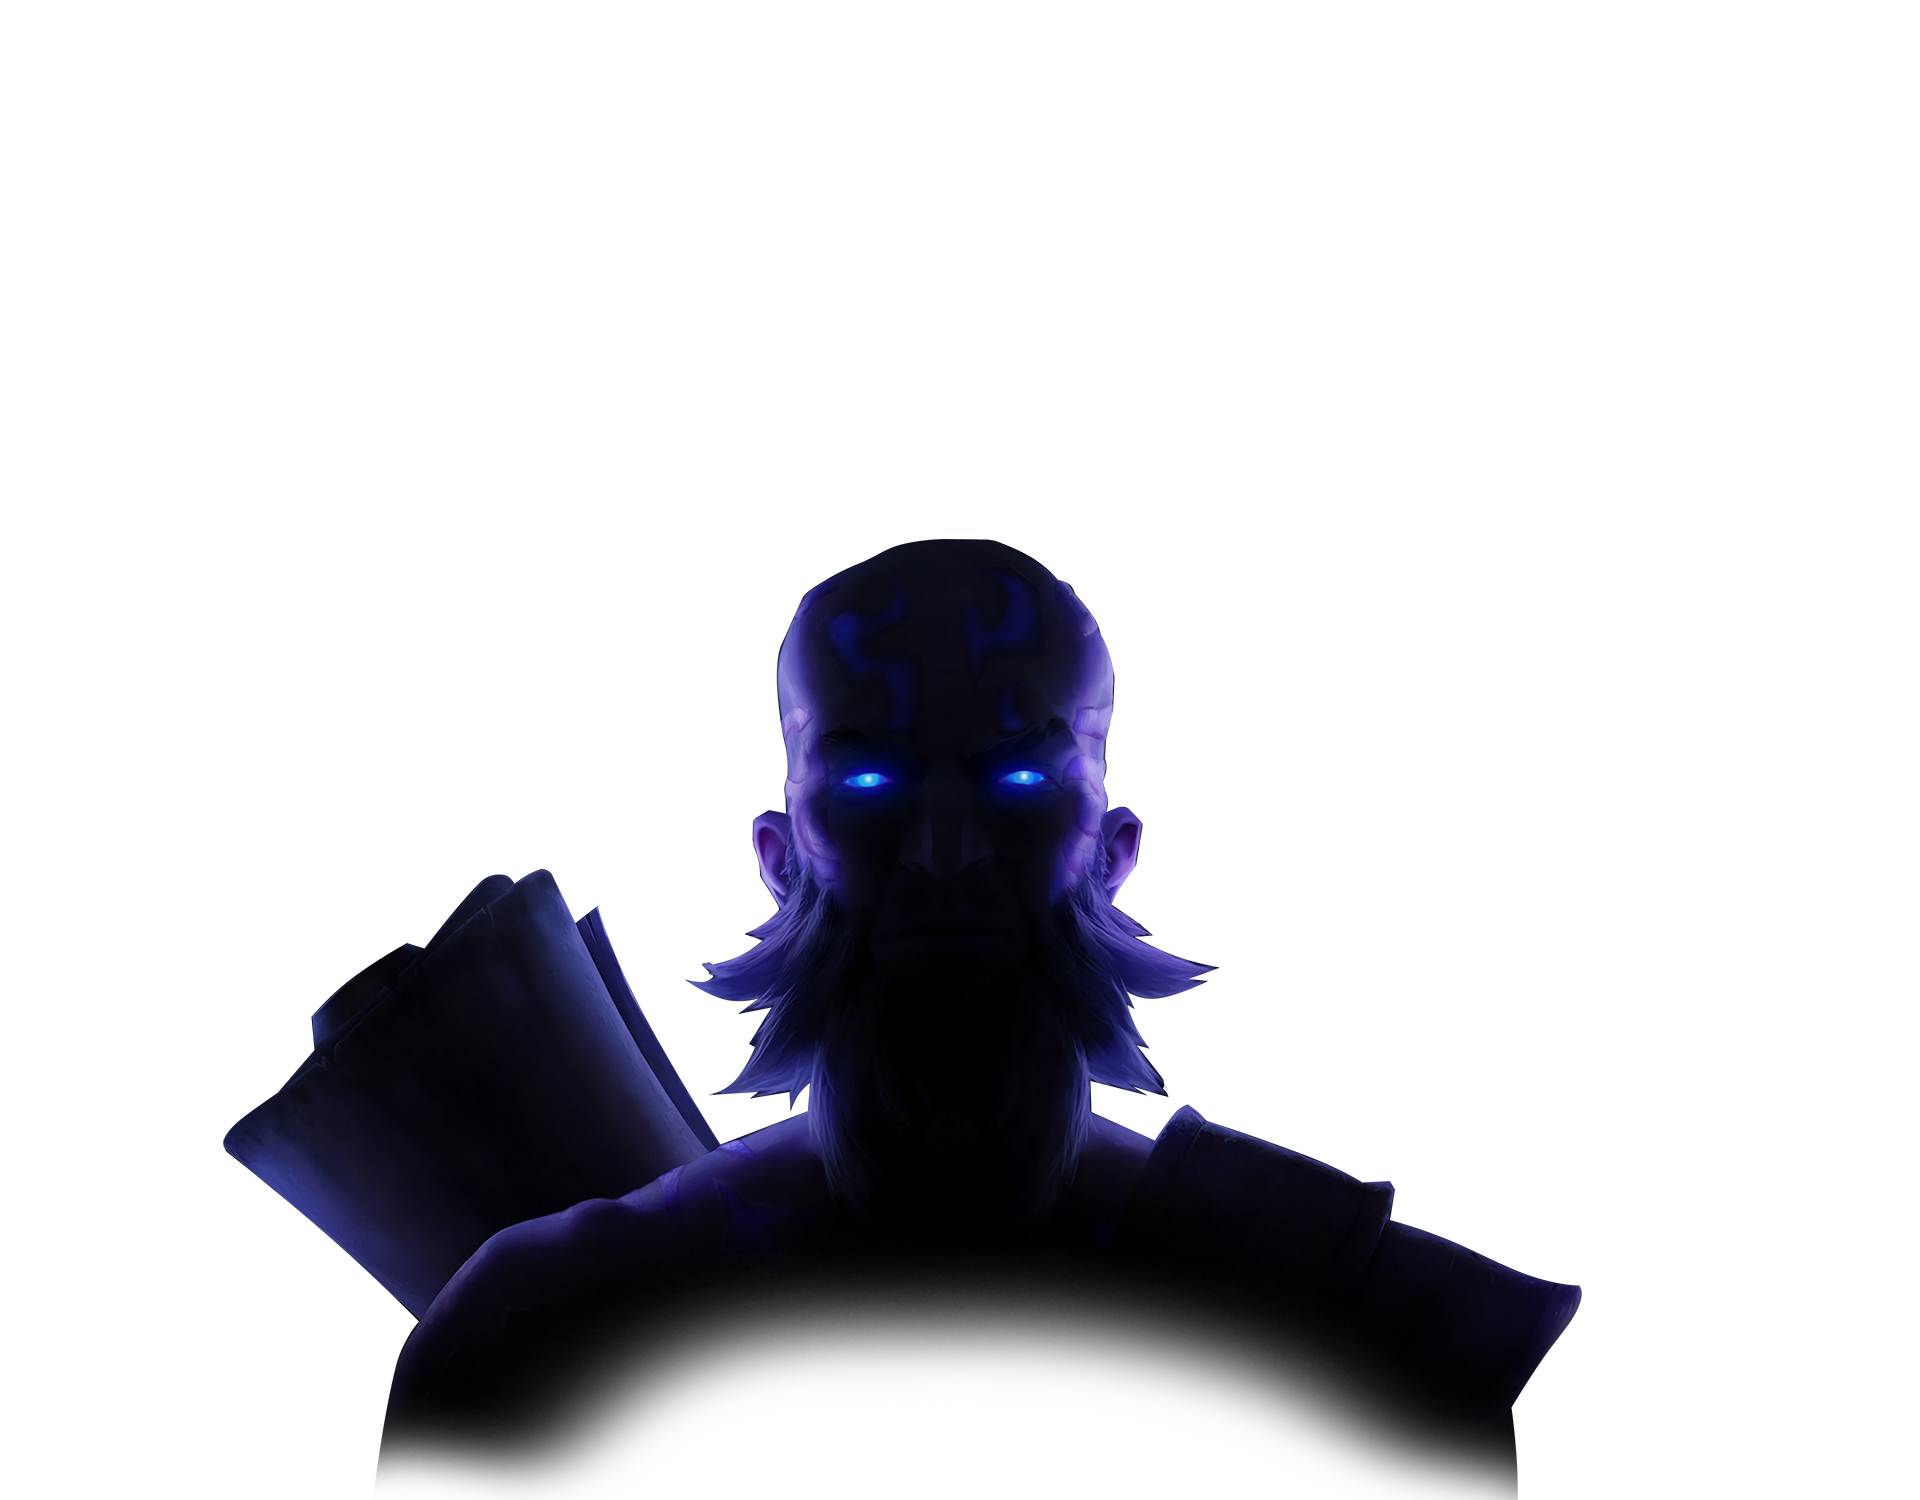
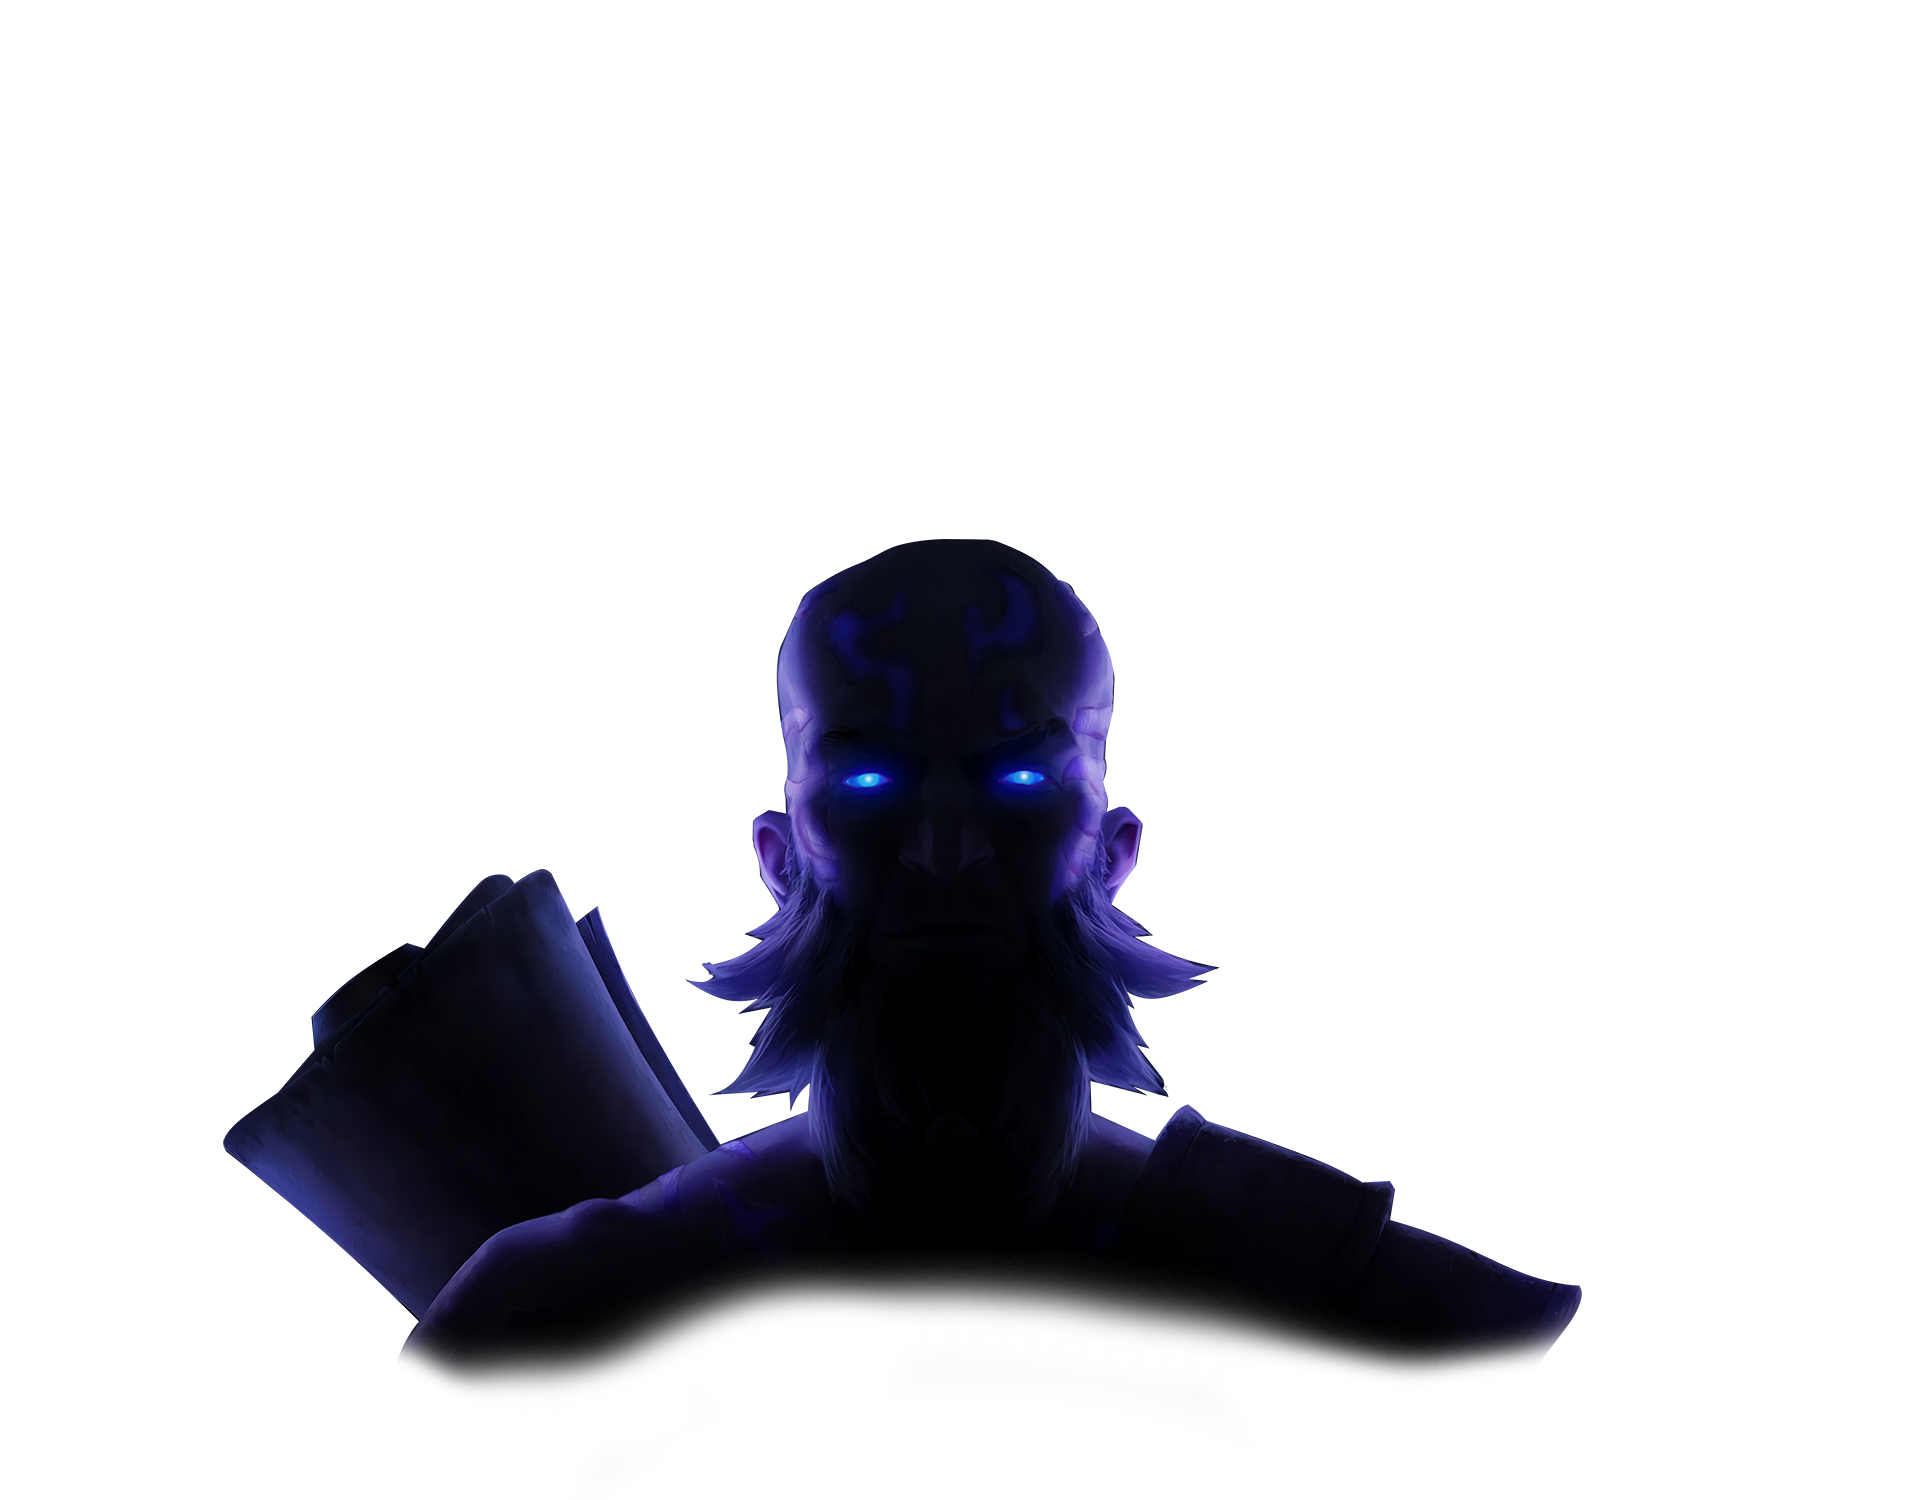
ryze

Changed region(s): [[0.1875, 0.828, 0.8125, 1.0]]

diff --git a/assets/css/style.css b/assets/css/style.css
@@ -401,6 +401,16 @@ i.fa {
   position: absolute;
   background: url(/assets/images/parallax/fondo-opt.jpg) no-repeat 50% 50%;
   background-size: cover;
+  top: -20%;
+}
+
+.text {
+  position: absolute;
+  width: 100%;
+  height: 100%;
+  top: 70%;
+  background: url(/assets/images/parallax/texto-opt.png) no-repeat 50% 40%;
+  background-size: cover;
 }
 
 .parallax-el {
@@ -409,21 +419,12 @@ i.fa {
   height: 140%;
   background: url(/assets/images/parallax/ryze-test.png) no-repeat 50% 50%;
   background-size: cover;
-  top: 20%;
-}
-
-.text {
-  position: absolute;
-  width: 100%;
-  height: 100%;
-  top: 35%;
-  background: url(/assets/images/parallax/texto-opt.png) no-repeat 50% 40%;
-  background-size: cover;
+  top: -50%;
 }
 
 .whitespace {
   width: 100%;
-  height: 122vh;
+  height: 84vh;
   background-color: black;
 }
 

diff --git a/index.html b/index.html
@@ -21,8 +21,8 @@
 <body>
     <header>
         <div class="hero-image"></div>
-        <div class="rellax text" data-rellax-speed="10"></div>
         <div class="rellax parallax-el" data-rellax-speed="5"></div>
+        <div class="rellax text" data-rellax-speed="1"></div>
         <div class="whitespace"></div>
     </header>
 
